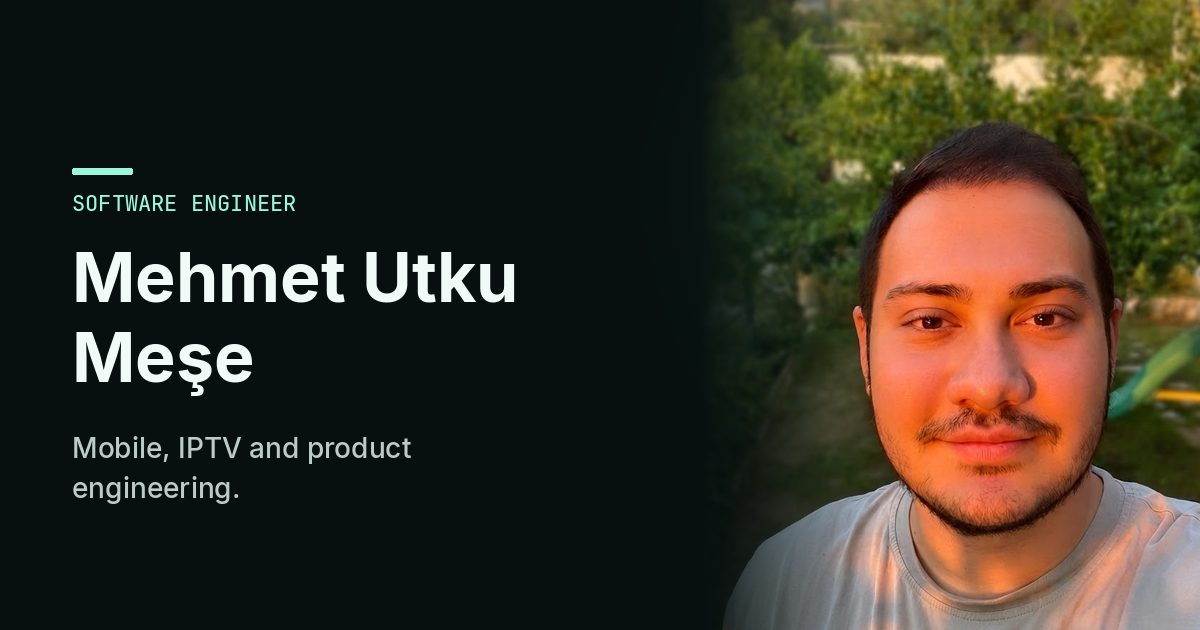
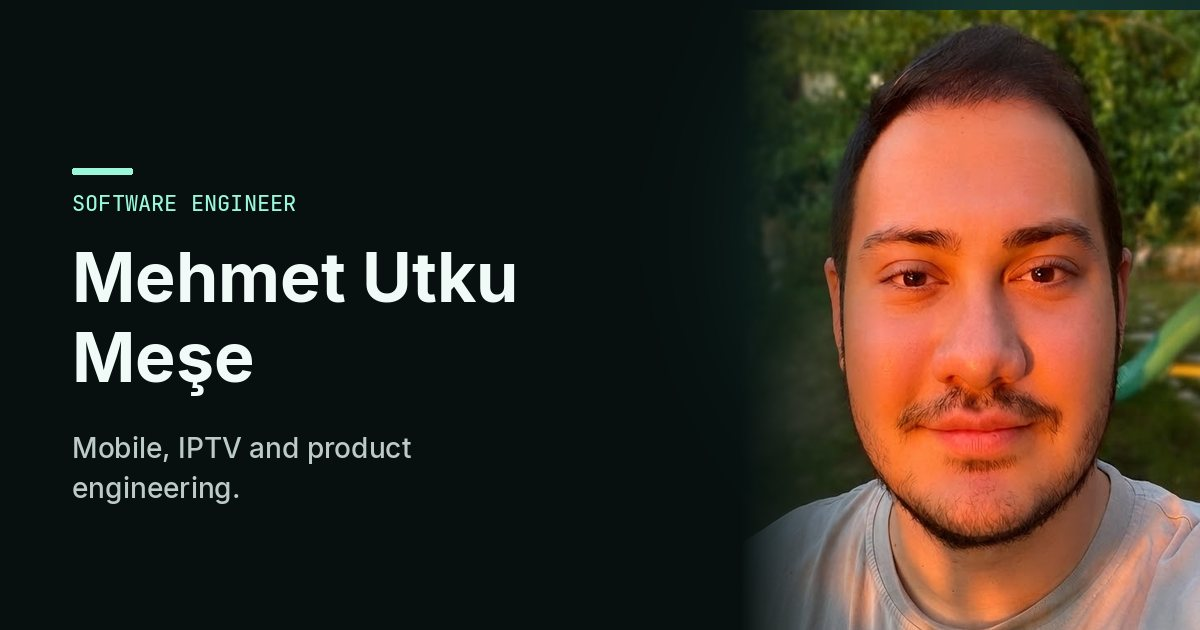
Center the full face in the About portrait.
The circle was framed on the forehead. The avatar, hero, and social image now keep the hair, face, and a bit of the shoulders in view.

Changed region(s): [[0.5858, 0.0, 1.0, 1.0]]

diff --git a/src/style.css b/src/style.css
@@ -578,7 +578,7 @@ button:focus-visible {
   width: 100%;
   height: 100%;
   object-fit: cover;
-  object-position: center 18%;
+  object-position: center center;
   filter: saturate(0.92) contrast(1.03);
 }
 
@@ -1087,6 +1087,8 @@ button:focus-visible {
 
 .about-portrait {
   position: relative;
+  width: min(100%, 300px);
+  justify-self: end;
   overflow: hidden;
   aspect-ratio: 1;
   border: 1px solid var(--line-strong);
@@ -1103,10 +1105,12 @@ button:focus-visible {
 }
 
 .about-portrait img {
+  position: absolute;
+  inset: 0;
   width: 100%;
   height: 100%;
   object-fit: cover;
-  object-position: center 22%;
+  object-position: center center;
   filter: saturate(0.92) contrast(1.03);
 }
 
